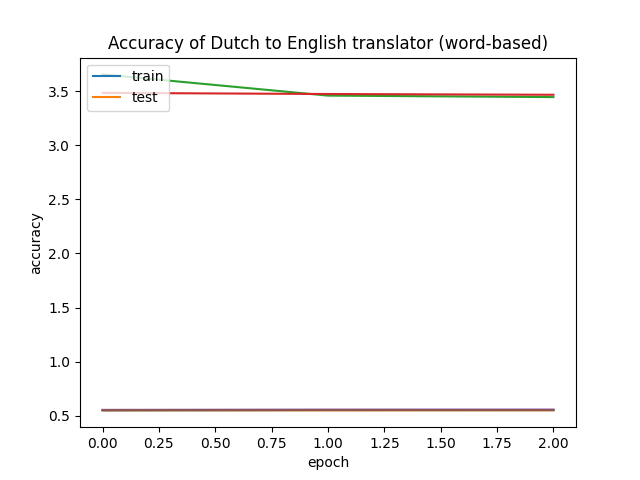
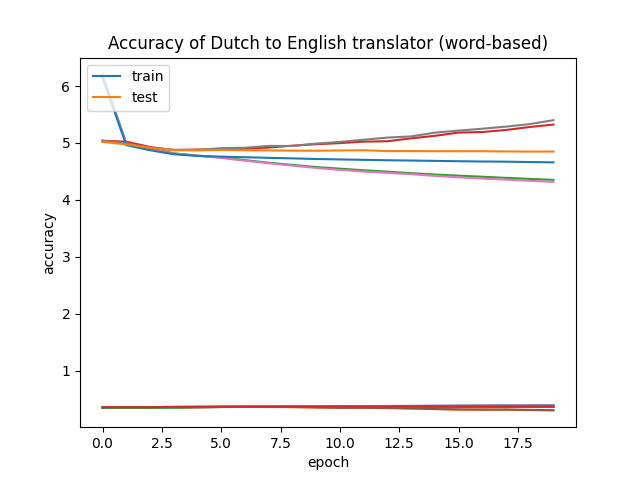
correct set up and debugged mistakes in modls; next up_ eng2nl with word2vec and attention

diff --git a/final_final.py b/final_final.py
@@ -37,11 +37,13 @@ dfi.export(summary_corpus, "documentation/tables_as_image/summary_corpus.png")
 
 # select random data of corpus for tasks 2-4
 ## note: due to limited resources, 3% of the short sentences (<= 50 words) are taken as a sample
-nl_idx_short_sentences = [idx for idx, sentence in enumerate(corpus.nl) if len(sentence.split(" ")) <= 50] # the short sentence are determined by the dutch corpus as dutch tends to use more words than the english equivalent
-eng_idx_short_sentences = [idx for idx, sentence in enumerate(corpus.eng) if len(sentence.split(" ")) <= 50]
-idx_short_sentences = list(set(nl_idx_short_sentences) & set(eng_idx_short_sentences))
-corpus_short = corpus.filter(items=idx_short_sentences, axis=0)
-sample = corpus_short.sample(round(len(corpus_short) * 0.05))
+
+#nl_idx_short_sentences = [idx for idx, sentence in enumerate(corpus.nl) if len(sentence.split(" ")) <= 50] # the short sentence are determined by the dutch corpus as dutch tends to use more words than the english equivalent
+#eng_idx_short_sentences = [idx for idx, sentence in enumerate(corpus.eng) if len(sentence.split(" ")) <= 50]
+#idx_short_sentences = list(set(nl_idx_short_sentences) & set(eng_idx_short_sentences))
+#corpus_short = corpus.filter(items=idx_short_sentences, axis=0)
+#sample = corpus_short.sample(round(len(corpus_short) * 0.05))
+sample = corpus.sample(round(len(corpus) * 0.01))
 
 # transform english and dutch corpus into single numpy arrays for frther steps
 eng_sentences = np.array(sample.eng)
@@ -96,7 +98,7 @@ eng_pad_sentence_char = eng_pad_sentence_char.reshape(*eng_pad_sentence_char.sha
 # amount of unique words: crucial for building all upcoming models
 nl_vocab = len(nl_text_tokenizer_word.word_index) + 1
 eng_vocab = len(eng_text_tokenizer_word.word_index) + 1
-nl_char = len(eng_text_tokenizer_char.word_index) + 1
+nl_char = len(nl_text_tokenizer_char.word_index) + 1
 eng_char = len(eng_text_tokenizer_char.word_index) + 1
 
 # summary of sample for documentation purposes
@@ -106,7 +108,7 @@ eng_max_len = len(max(eng_text_tokenized_word,key=len))
 eng_min_len = len(min(eng_text_tokenized_word,key=len))
 
 nl_avg_len = np.mean([len(sentence) for sentence in nl_text_tokenized_word]) # average amount of words in a sentence of dutch corpus
-nl_num_word = len([len(sentence) for sentence in eng_text_tokenized_word]) # number of words in dutch corpus
+nl_num_word = sum([len(sentence) for sentence in nl_text_tokenized_word]) # number of words in dutch corpus
 nl_max_len = len(max(nl_text_tokenized_word,key=len))
 nl_min_len = len(min(nl_text_tokenized_word,key=len))
 
@@ -132,7 +134,7 @@ def encdec_model(input_shape, output_max_len, output_vocab_size):
     model.add(GRU(64, input_shape = input_shape[1:], return_sequences = False))
     model.add(RepeatVector(output_max_len))
     model.add(GRU(64, return_sequences = True))
-    model.add(TimeDistributed(Dense(output_vocab_size+1, activation = 'softmax'))) # +1 to include the last item of the output vocab
+    model.add(TimeDistributed(Dense(output_vocab_size, activation = 'softmax')))
     model.compile(loss='sparse_categorical_crossentropy', optimizer='adam', metrics=['accuracy'])
     return model
 
@@ -150,7 +152,7 @@ nl2eng_encdec_char_model = encdec_model(nl_pad_sentence_char.shape, max_eng_len_
 # function for building ecoder-decoder model with Keras' embedding model
 def keras_embd_encdec_model(input_shape, output_max_len, output_vocab_size, input_vocab_size):
     model = Sequential()
-    model.add(Embedding(input_vocab_size, 32, input_length=input_shape[1], trainable = True))
+    model.add(Embedding(input_vocab_size, 300, input_length=input_shape[1], trainable = True)) #output dimension is set to 300 to be comparable with fixed output dim of glove and word2vec
     model.add(GRU(64, return_sequences = False))
     model.add(RepeatVector(output_max_len))
     model.add(GRU(64, return_sequences = True))
@@ -168,71 +170,69 @@ nl2eng_keras_embd_encdec_char_model = keras_embd_encdec_model(nl_pad_sentence_ch
 
 
 
-# glove embedding:
+# english embedding
 # get all of glove's pre-trained weights
-glove_word_vectors = {}
+eng_glove_word_vectors = {}
 with open("data\glove.6B.300d.txt", encoding="utf8") as glove_data:
     for element in glove_data:
         values = element.split()            
         word = values[0]            
         coefs = values[1:]            
-        glove_word_vectors[word] = np.asarray(coefs, dtype='float32')
+        eng_glove_word_vectors[word] = np.asarray(coefs, dtype='float32')
 
 # select glove vectors whose words are also present in the english corpus and store it in a matrix
-glove_embedding_matrix = np.zeros((eng_vocab, 300)) # 300 = word vector dimension = number of weights per word in glove --> see: len(glove_word_vectors["the"])
-words_not_in_glove = []
+eng_glove_embedding_matrix = np.zeros((eng_vocab, 300)) # 300 = word vector dimension = number of weights per word in glove --> see: len(glove_word_vectors["the"])
+eng_words_not_in_glove = []
 for word, i in eng_text_tokenizer_word.word_index.items():        
-    embedding_vector = glove_word_vectors.get(word)
+    embedding_vector = eng_glove_word_vectors.get(word)
     if embedding_vector is not None: # non exisiting words will be zero            
-        glove_embedding_matrix[i] = embedding_vector
+        eng_glove_embedding_matrix[i] = embedding_vector
     else : 
-        words_not_in_glove.append(word)
+        eng_words_not_in_glove.append(word)
 
-# function for building ecoder-decoder model with Glove embedding
-def glove_embd_encdec_model(input_shape, output_max_len, output_vocab_size, input_vocab_size):
-    #build model
-    model = Sequential()
-    model.add(Embedding(input_vocab_size, 300, input_length=input_shape[1], embeddings_initializer=Constant(glove_embedding_matrix)))
-    model.add(GRU(64, return_sequences = False))
-    model.add(RepeatVector(output_max_len))
-    model.add(GRU(64, return_sequences = True))
-    model.add(TimeDistributed(Dense(output_vocab_size+1, activation = 'softmax')))
-    model.compile(loss='sparse_categorical_crossentropy', optimizer='adam', metrics=['accuracy'])
-    return model
-
-# build models (only those capable of using pretrained glove: english as input language and word-based)
-eng2nl_glove_embd_encdec_word_model = glove_embd_encdec_model(eng_pad_sentence_word.shape, max_nl_len_word, nl_vocab, eng_vocab)
-
-
-
-# word2vec embedding:
 # word2vec embedding based on pre-trained weights (source: https://code.google.com/archive/p/word2vec/):
-word2vec = KeyedVectors.load_word2vec_format("data\GoogleNews-vectors-negative300.bin", binary=True) # get all pretrained weigths
+eng_word2vec = KeyedVectors.load_word2vec_format("data\GoogleNews-vectors-negative300.bin", binary=True) # get all pretrained weigths
 
 # select word2vec vectors whose words are also present in the english corpus and store it in a matrix
-word2vec_embedding_matrix = np.zeros((eng_vocab, 300)) # 300 = word2vec vector dimension (= 300 weigths per word)
-words_not_in_word2vec = []
+eng_word2vec_embedding_matrix = np.zeros((eng_vocab, 300)) # 300 = word2vec vector dimension (= 300 weigths per word)
+eng_words_not_in_word2vec = []
 for word, i in eng_text_tokenizer_word.word_index.items():  
-    if word in word2vec : 
-        word2vec_embedding_matrix[i] = word2vec[word]
+    if word in eng_word2vec : 
+        eng_word2vec_embedding_matrix[i] = eng_word2vec[word]
     else : 
-        words_not_in_word2vec.append(word)
+        eng_words_not_in_word2vec.append(word)
 
-# function for building ecoder-decoder model with word2vec embedding
-def word2vec_embd_encdec_model(input_shape, output_max_len, output_vocab_size, input_vocab_size):
+
+
+# dutch embedding
+# word2vec embedding based on pre-trained weights (source: https://github.com/clips/dutchembeddings):
+nl_word2vec = KeyedVectors.load_word2vec_format("data\wikipedia-320.txt") # get all pretrained weigths
+
+# select word2vec vectors whose words are also present in the dutch corpus and store it in a matrix
+nl_word2vec_embedding_matrix = np.zeros((nl_vocab, 320)) # 320 = word2vec vector dimension (= 320 weigths per word)
+nl_words_not_in_word2vec = []
+for word, i in nl_text_tokenizer_word.word_index.items():  
+    if word in nl_word2vec : 
+        nl_word2vec_embedding_matrix[i] = nl_word2vec[word]
+    else : 
+        nl_words_not_in_word2vec.append(word)
+
+# function for building ecoder-decoder model with pretrained embedding weights
+def embd_encdec_model(input_shape, output_max_len, output_vocab_size, input_vocab_size, embedding_matrix):
     #build model
     model = Sequential()
-    model.add(Embedding(input_vocab_size, 300, input_length=input_shape[1], embeddings_initializer=Constant(word2vec_embedding_matrix))) # 300 due to word2vec vector dimension
+    model.add(Embedding(input_vocab_size, embedding_matrix.shape[1], input_length=input_shape[1], embeddings_initializer=Constant(embedding_matrix)))
     model.add(GRU(64, return_sequences = False))
     model.add(RepeatVector(output_max_len))
     model.add(GRU(64, return_sequences = True))
-    model.add(TimeDistributed(Dense(output_vocab_size+1, activation = 'softmax')))
+    model.add(TimeDistributed(Dense(output_vocab_size, activation = 'softmax')))
     model.compile(loss='sparse_categorical_crossentropy', optimizer='adam', metrics=['accuracy'])
     return model
 
-# build models (only those capable of using pretrained word2vec: english as input language and word-based)
-eng2nl_word2vec_embd_encdec_word_model = word2vec_embd_encdec_model(eng_pad_sentence_word.shape, max_nl_len_word, nl_vocab, eng_vocab)
-
+# build eng2nl machine translators
+eng2nl_glove_embd_encdec_word_model = embd_encdec_model(eng_pad_sentence_word.shape, max_nl_len_word, nl_vocab, eng_vocab, eng_glove_embedding_matrix)
+eng2nl_word2vec_embd_encdec_word_model = embd_encdec_model(eng_pad_sentence_word.shape, max_nl_len_word, nl_vocab, eng_vocab, eng_word2vec_embedding_matrix)
+nl2eng_word2vec_embd_encdec_word_model = embd_encdec_model(nl_pad_sentence_word.shape, max_eng_len_word, eng_vocab, nl_vocab, nl_word2vec_embedding_matrix)
 
 
 # TASK 4: neural machine translation with attention (based on guide: https://towardsdatascience.com/light-on-math-ml-attention-with-keras-dc8dbc1fad39)
@@ -250,25 +250,41 @@ def attention_encdec_model():
 # build models with attention mechanism
 
 # the essential models for task 3
-# - eng2nl glove
+# - eng2nl glove --> 
 # - eng2nl word2vec -->
 # - nl2eng word2vec --> weights: https://github.com/clips/dutchembeddings
-# - nl2eng glove--> ??? currently missing
 # - eng2nl char based
 
 #essential models for task 4
-# - eng2nl glove with attention
 # - eng2nl word2vec with attention
 
 model_training_manuals = [
-
- 
     {   
         "title" : "English to Dutch translator (word-based)",
         "model" : eng2nl_encdec_word_model,
         "X" : eng_pad_sentence_word,
         "y" : nl_pad_sentence_word
     },
+    {   
+        "title" : "Dutch to English translator (word-based, Word2Vec embedding)",
+        "model" : nl2eng_word2vec_embd_encdec_word_model,
+        "X" : nl_pad_sentence_word,
+        "y" : eng_pad_sentence_word
+    },
+    {   
+        "title" : "English to Dutch translator (word-based, Word2Vec embedding)",
+        "model" : eng2nl_word2vec_embd_encdec_word_model,
+        "X" : eng_pad_sentence_word,
+        "y" : nl_pad_sentence_word
+    },
+    {
+        "title" : "English to Dutch translator (char-based)", 
+        "model" : eng2nl_encdec_char_model,
+        "X" : eng_pad_sentence_char,
+        "y" : nl_pad_sentence_char
+    },
+    
+    
 
     {
         "title" : "Dutch to English translator (word-based)",
@@ -277,12 +293,7 @@ model_training_manuals = [
         "y" : eng_pad_sentence_word
     },
 
-    {
-        "title" : "English to Dutch translator (char-based)", 
-        "model" : eng2nl_encdec_char_model,
-        "X" : eng_pad_sentence_char,
-        "y" : nl_pad_sentence_char
-    },
+    
 
     {
         "title" :"Dutch to English translator (char-based)", 
@@ -317,12 +328,6 @@ model_training_manuals = [
         "X" : nl_pad_sentence_char,
         "y" : eng_pad_sentence_char
     },
-        {   
-        "title" : "English to Dutch translator (word-based, Word2Vec embedding)",
-        "model" : eng2nl_word2vec_embd_encdec_word_model,
-        "X" : eng_pad_sentence_word,
-        "y" : nl_pad_sentence_word
-    },
        {   
         "title" : "English to Dutch translator (word-based, Glove embedding)",
         "model" : eng2nl_glove_embd_encdec_word_model,
@@ -340,7 +345,7 @@ for manual in model_training_manuals:
     manual["model"].summary()
 
     # train and test model
-    history = manual["model"].fit(manual["X"], manual["y"], batch_size=64, epochs=1, validation_split=0.2)
+    history = manual["model"].fit(manual["X"], manual["y"], batch_size=32, epochs=3, validation_split=0.2)
 
     # accuracy of validation of last epoch
     print("Last measured accuracy score: ", history.history["val_accuracy"][2])
